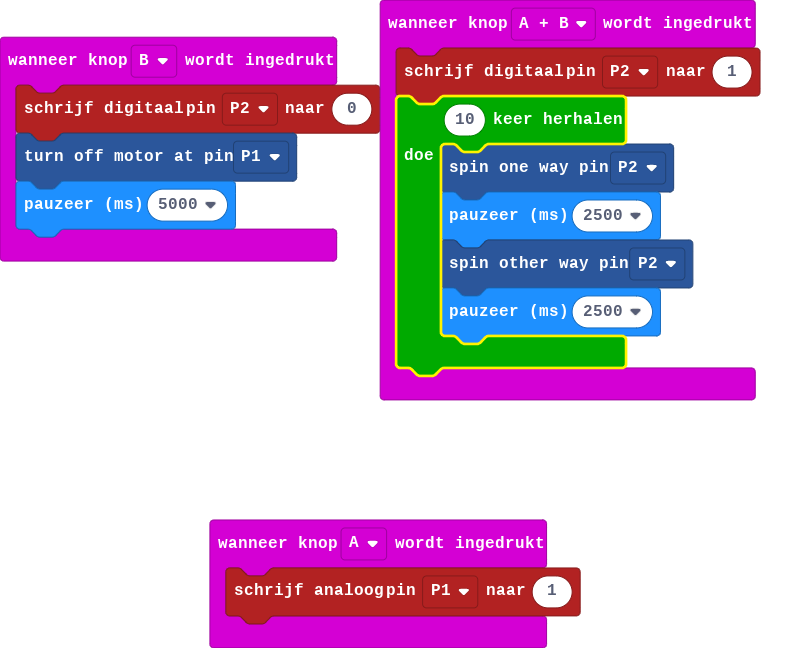
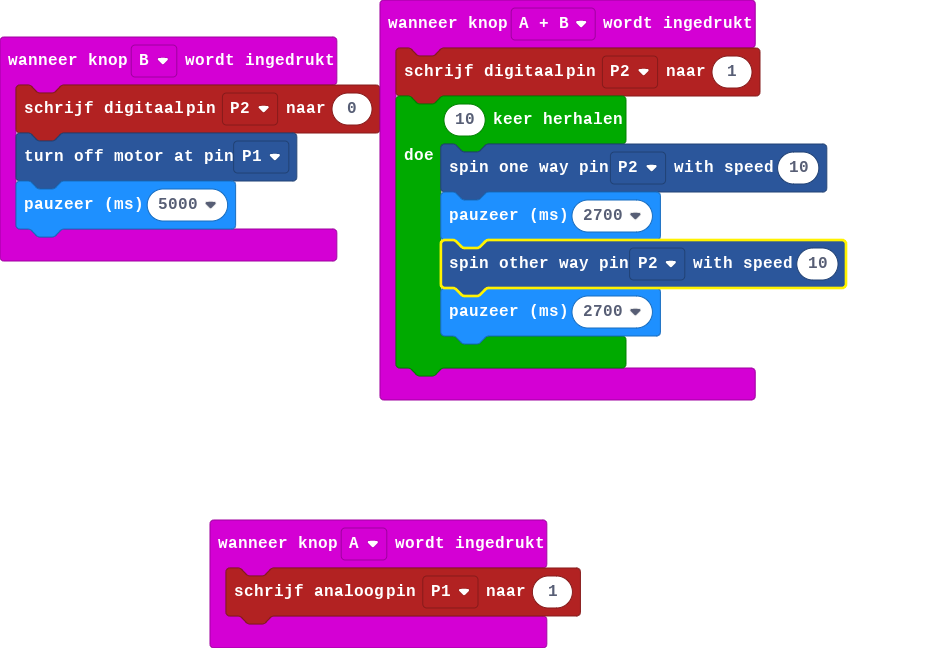
main.blocks, main.ts bijwerken

Changed region(s): [[0.0, 0.0, 0.9544, 0.6173], [0.2155, 0.8025, 0.7389, 1.0]]

diff --git a/main.ts b/main.ts
@@ -4,10 +4,10 @@ input.onButtonPressed(Button.A, function () {
 input.onButtonPressed(Button.AB, function () {
     pins.digitalWritePin(DigitalPin.P2, 1)
     for (let index = 0; index < 10; index++) {
-        ContinuousServo.spin_one_way(AnalogPin.P2)
-        basic.pause(2500)
-        ContinuousServo.spin_other_way(AnalogPin.P2)
-        basic.pause(2500)
+        ContinuousServo.spin_one_way_with_speed(AnalogPin.P2, 10)
+        basic.pause(2700)
+        ContinuousServo.spin_other_way_with_speed(AnalogPin.P2, 10)
+        basic.pause(2700)
     }
 })
 input.onButtonPressed(Button.B, function () {
